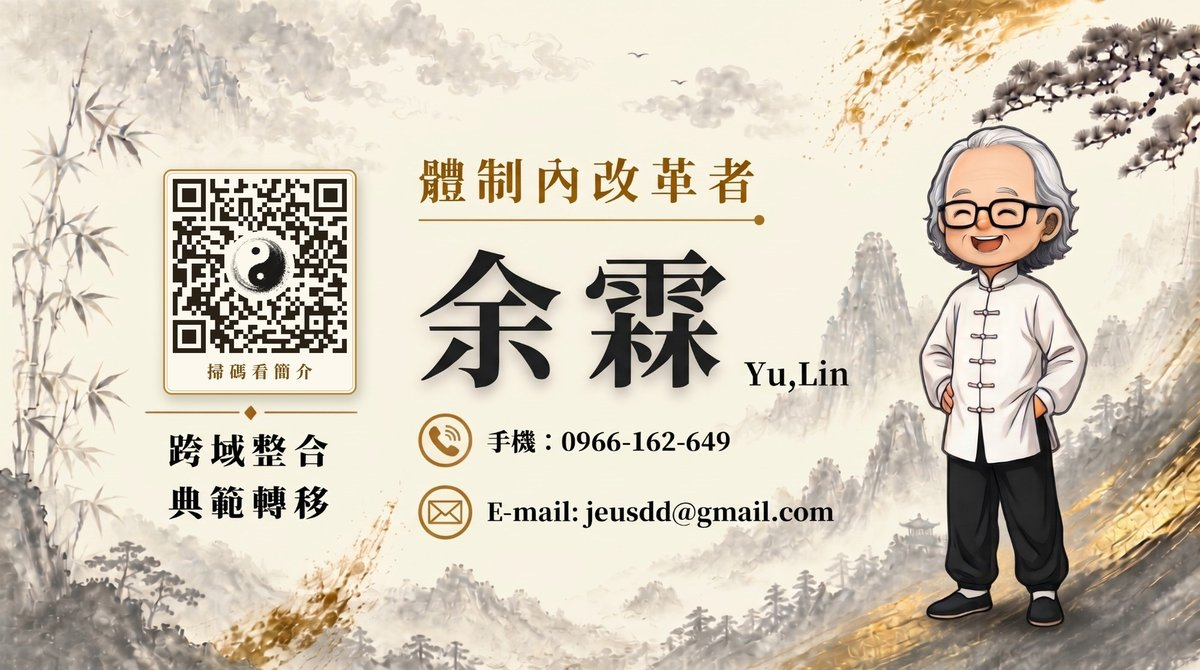
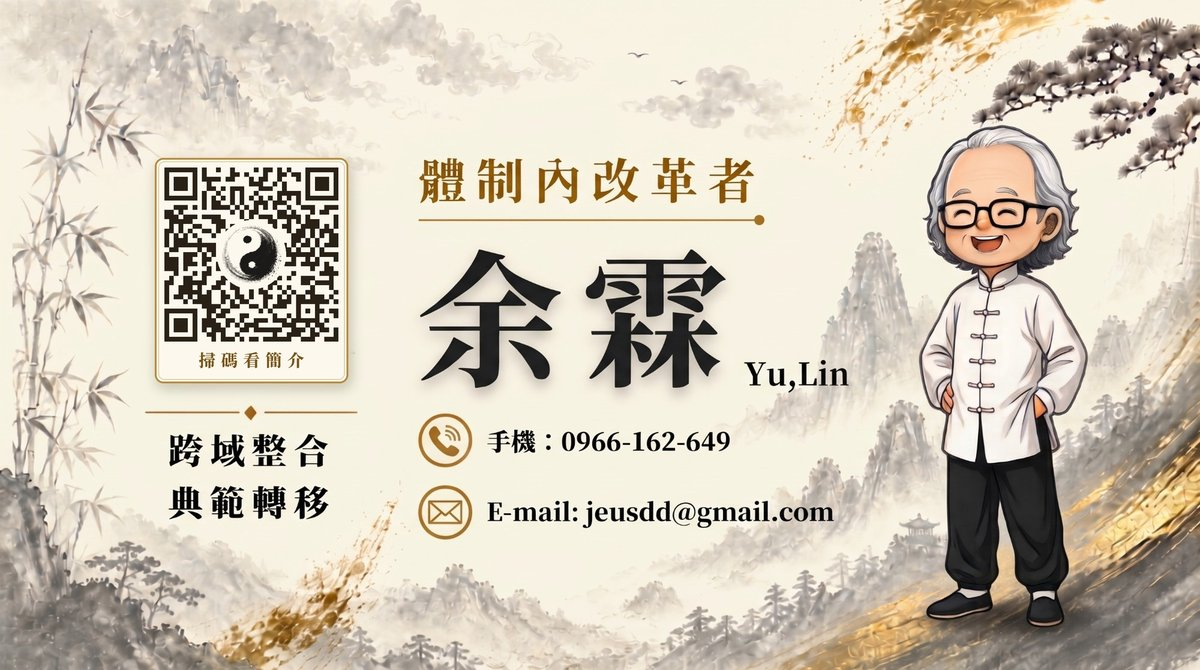
名片QR置中於金線上方、與標題同高

Changed region(s): [[0.1233, 0.209, 0.3083, 0.597]]

diff --git a/index.html b/index.html
@@ -8,7 +8,7 @@
 <meta property="og:title" content="余霖｜體制內改革者">
 <meta property="og:description" content="臺北市政府教育局聘任督學・前大直高中校長・木鐸獎得主">
 <meta property="og:type" content="profile">
-<meta property="og:image" content="https://sherryliao0930.github.io/yu-lin/card.jpg?v=20261107b">
+<meta property="og:image" content="https://sherryliao0930.github.io/yu-lin/card.jpg?v=20261107c">
 <meta name="theme-color" content="#f5efe2">
 <meta name="color-scheme" content="light">
 <link rel="preconnect" href="https://fonts.googleapis.com">
@@ -310,11 +310,11 @@ footer{margin-top:clamp(80px,12vw,130px);padding:clamp(56px,8vw,90px) 0 64px;bor
 <footer id="contact">
   <div class="wrap">
     <div class="head"><h2>電子名片</h2><small>CONTACT</small></div>
-    <figure class="namecard"><img src="namecard.jpg?v=20261107b" width="2000" height="1116" alt="余霖名片：體制內改革者，跨域整合・典範轉移，手機 0966-162-649，E-mail jeusdd@gmail.com"></figure>
+    <figure class="namecard"><img src="namecard.jpg?v=20261107c" width="2000" height="1116" alt="余霖名片：體制內改革者，跨域整合・典範轉移，手機 0966-162-649，E-mail jeusdd@gmail.com"></figure>
     <div class="foot-actions">
       <button class="btn solid" type="button" id="saveContact">存入通訊錄</button>
       <button class="btn" type="button" data-share>分享名片</button>
-      <a class="btn" href="namecard.jpg?v=20261107b" download="余霖電子名片.jpg">下載名片</a>
+      <a class="btn" href="namecard.jpg?v=20261107c" download="余霖電子名片.jpg">下載名片</a>
     </div>
   </div>
 </footer>
